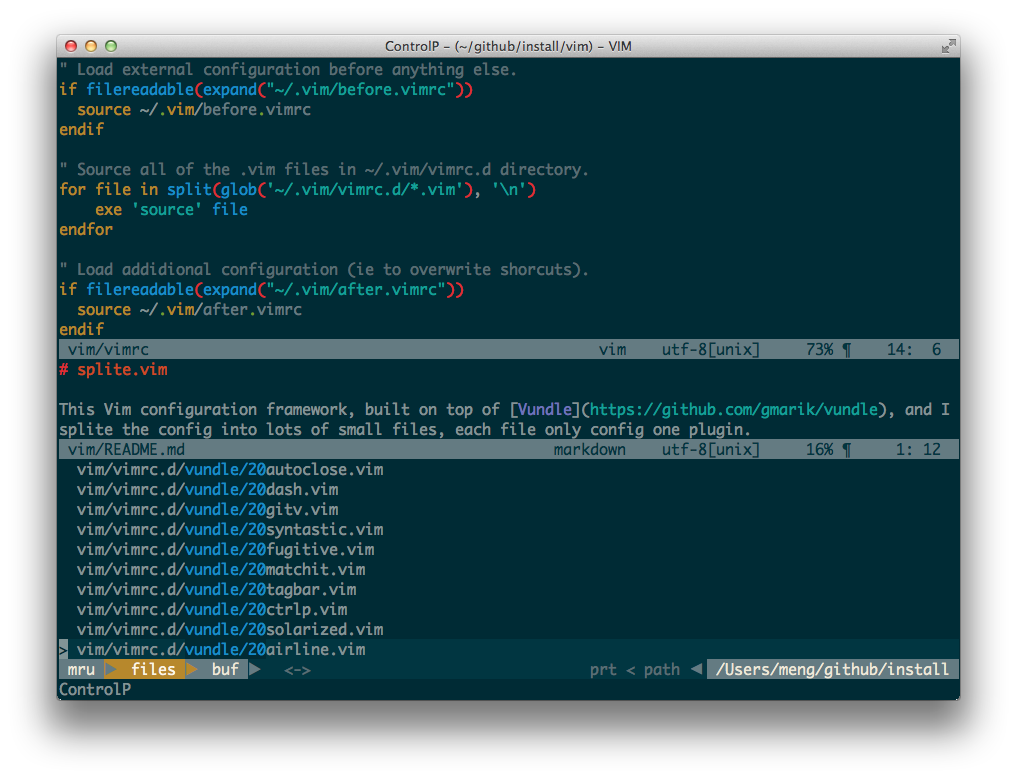
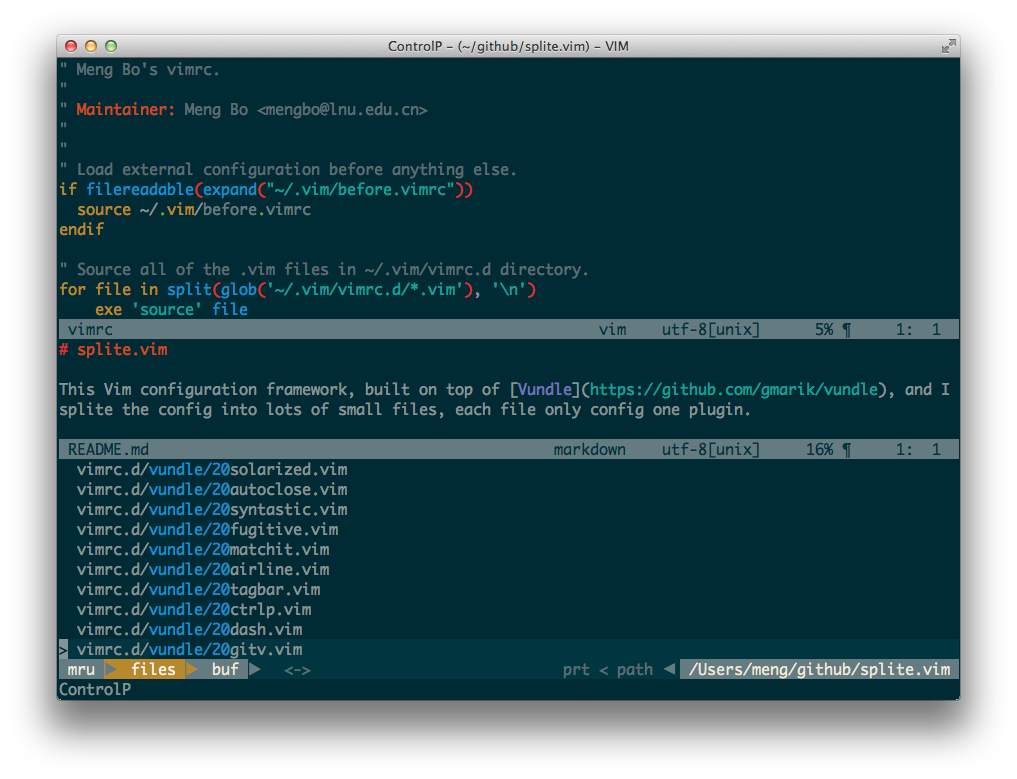
change screenshot macvim.png.

diff --git a/README.md b/README.md
@@ -2,5 +2,5 @@
 
 This Vim configuration framework, built on top of [Vundle](https://github.com/gmarik/vundle), and I splite the config into lots of small files, each file only config one plugin.
 
-![splite.vim](https://github.com/mengbo/install/raw/master/vim/screenshots/macvim.png)
+![splite.vim](https://github.com/mengbo/splite.vim/raw/master/screenshots/macvim.png)
 
